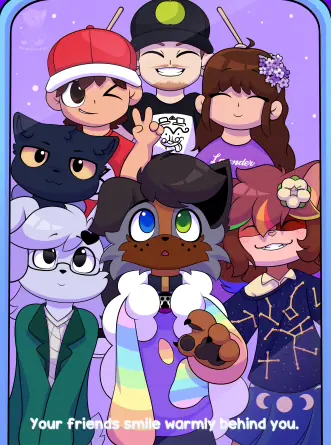
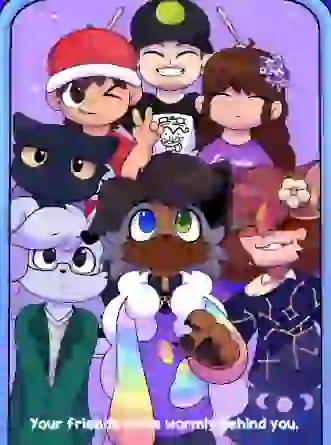
sync

Changed region(s): [[0.0, 0.0, 1.0, 1.0], [0.423, 0.3506, 0.4532, 0.3798], [0.1511, 0.0292, 0.1813, 0.0584]]

diff --git a/index.html b/index.html
@@ -265,6 +265,7 @@
 <img id="lined/Mirror.webp" loading="lazy" src="/styles/lined/Mirror.webp" alt="Mirror by Cocobeanzies">
 <img id="lined/My Blahajy.webp" loading="lazy" src="/styles/lined/My Blahajy.webp" alt="My Blahajy by Cocobeanzies">
 <img id="lined/Nostalgia Wind.webp" loading="lazy" src="/styles/lined/Nostalgia Wind.webp" alt="Nostalgia Wind by Cocobeanzies">
+<img id="lined/Sadness.webp" loading="lazy" src="/styles/lined/Sadness.webp" alt="Sadness by Cocobeanzies">
 <img id="lined/Silliam.webp" loading="lazy" src="/styles/lined/Silliam.webp" alt="Silliam by Cocobeanzies">
 <img id="lined/Spacey Jackal.webp" loading="lazy" src="/styles/lined/Spacey Jackal.webp" alt="Spacey Jackal by Cocobeanzies">
 <img id="lined/The Rainbow Graduate!.webp" loading="lazy" src="/styles/lined/The Rainbow Graduate!.webp" alt="The Rainbow Graduate! by Cocobeanzies">
@@ -313,7 +314,7 @@ const STYLES = [
 	}, {
 		name: "Lined, Typically Cell Shade",
 		path: "lined",
-		images: ["Art Fight Mascots.webp", "Bubble!.webp", "Clione.webp", "CocoKaGor Full.webp", "Comet's Shy Wave.webp", "Enida.webp", "Greffor Test.webp", "Hewo!.webp", "Konata!.webp", "Little Enida.webp", "Lychee Coco Cuddle.webp", "Lychee Coco Hold.webp", "Lychee Tummy Tickles.webp", "Lychee on the Beach.webp", "Mirror.webp", "My Blahajy.webp", "Nostalgia Wind.webp", "Silliam.webp", "Spacey Jackal.webp", "The Rainbow Graduate!.webp", "wEH.webp"],
+		images: ["Art Fight Mascots.webp", "Bubble!.webp", "Clione.webp", "CocoKaGor Full.webp", "Comet's Shy Wave.webp", "Enida.webp", "Greffor Test.webp", "Hewo!.webp", "Konata!.webp", "Little Enida.webp", "Lychee Coco Cuddle.webp", "Lychee Coco Hold.webp", "Lychee Tummy Tickles.webp", "Lychee on the Beach.webp", "Mirror.webp", "My Blahajy.webp", "Nostalgia Wind.webp", "Sadness.webp", "Silliam.webp", "Spacey Jackal.webp", "The Rainbow Graduate!.webp", "wEH.webp"],
 		shuffle: true
 	}, {
 		name: "Animated, Pixel or Frame-by-Frame",

diff --git a/resize.py b/resize.py
@@ -118,7 +118,7 @@ def start_proc(sfn, dfn, im, fmt, w, h, alpha, animated, lossless):
 		args = ["ffmpeg", "-hide_banner", "-y", "-i", sfn, "-max_muxing_queue_size", "99999"]
 	true_lossless = lossless and not animated
 	if fmt == "webp":
-		args.extend(("-vf", f"scale={w}:{h}:flags=area", "-c:v", "libwebp_anim" if animated else "libwebp", "-pix_fmt", ("bgra" if alpha else "bgr24") if true_lossless else ("yuva420p" if alpha else "yuv420p"), "-lossless", *(("1",) if true_lossless else ("0", "-quality", "90" if true_lossless else "75")), "-compression_level", "5", "-loop", "0"))
+		args.extend(("-vf", f"scale={w}:{h}:flags=area", "-c:v", "libwebp_anim" if animated else "libwebp", "-pix_fmt", ("bgra" if alpha else "bgr24") if true_lossless else ("yuva420p" if alpha else "yuv420p"), "-lossless", *(("1",) if true_lossless else ("0", "-quality", "90")), "-compression_level", "5", "-loop", "0"))
 	elif fmt == "avif":
 		pix = "bgrp" if true_lossless else "yuv420p"
 		bitrate = 16 * 1024 * 1024 if true_lossless else 1024 * 1024
